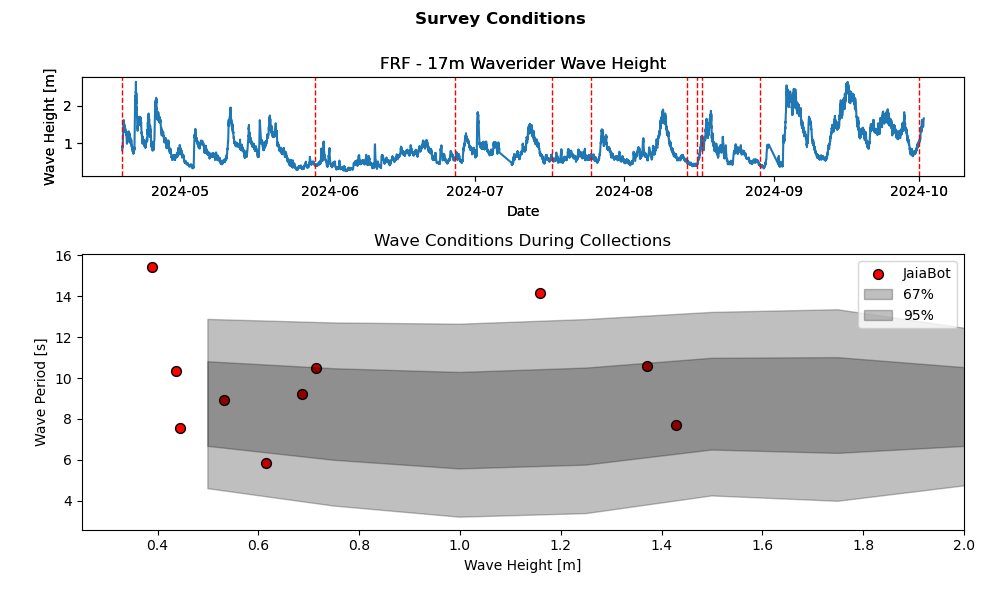
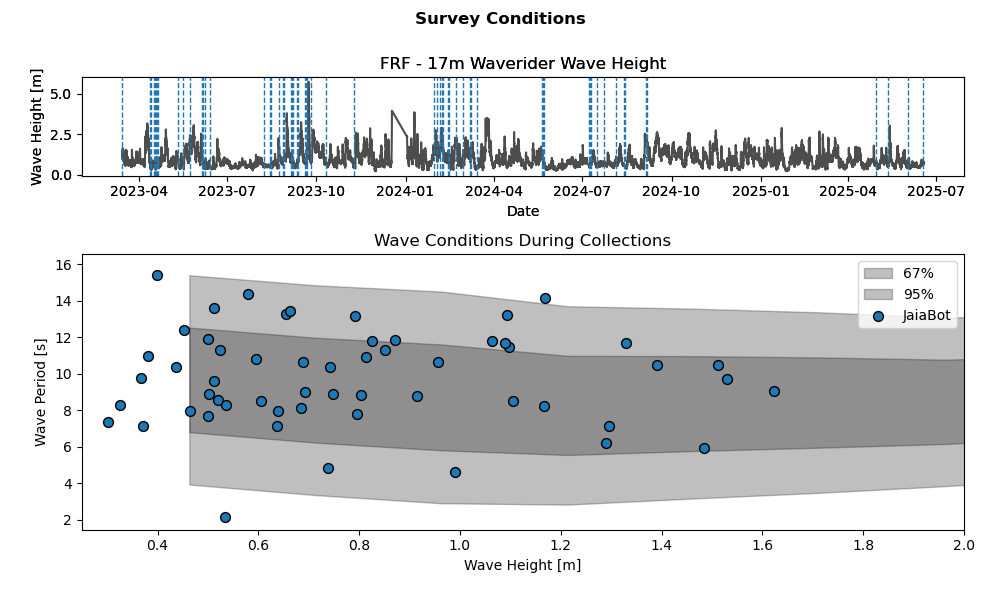
Update date lists; update marker colors; make new plots.

diff --git a/find_asv_survey_conditions.py b/find_asv_survey_conditions.py
@@ -5,9 +5,9 @@ from matplotlib import pyplot as plt
 
 ############### USER INPUTS ###############
 
-ofname = 'all_jb_wave_conditions.png'  # name of figure to be printed
-#yf_date_file_name = 'all_yellowfin_dates.txt'  # Comment this line out if you don't want to include these dates
-jb_date_file_name = 'all_jaiabot_dates.txt'  # Comment this line out if you don't want to include these dates
+ofname = 'all_yf_wave_conditions.png'  # name of figure to be printed
+yf_date_file_name = 'all_yellowfin_dates.txt'  # Comment this line out if you don't want to include these dates
+#jb_date_file_name = 'all_jaiabot_dates.txt'  # Comment this line out if you don't want to include these dates
 sampling_hours = 1  # number of hours for each survey, assuming start time below (one datapoint will be plotted for each hour)
 start_hour = 13  # assumed start hour in UTC (ie 1300 UTC)
 
@@ -58,22 +58,24 @@ def conditions_operated_plot(ofname, all_waves, bins, tp_mean, tp_std,
     # Panel 1: Vertical lines for survey dates
     ax1 = plt.subplot2grid((3, 2), (0, 0), colspan=2)
     ax1.set_title('FRF - 17m Waverider Wave Height')
-    ax1.plot(all_waves['time'], all_waves['Hs'], label='Wave Height') #, color='#5A5A5A')
+    ax1.plot(all_waves['time'], all_waves['Hs'], label='Wave Height', color='#4d4d4d')
     ax1.set_ylabel('Wave Height [m]')
     ax1.set_xlabel('Date')
 
     if yf_dates_list:
         for d in yf_dates_list:
-            ax1.axvline(dt.datetime.strptime(d, '%Y%m%d'), color='#FFDB58', linestyle='--', linewidth=1,
-                        label='Yellowfin')
+            ax1.axvline(dt.datetime.strptime(d, '%Y%m%d'), color='#ff7f0e', linestyle='--', linewidth=1,
+                        label='Yellowfin')  #color='#FFDB58'
 
     if jb_dates_list:
         for d in jb_dates_list:
-            ax1.axvline(dt.datetime.strptime(d, '%Y%m%d'), color='red', linestyle='--', linewidth=1, label='JaiaBot')
+            ax1.axvline(dt.datetime.strptime(d, '%Y%m%d'), color='#1f77b4', linestyle='--', linewidth=1, label='JaiaBot')
 
     # Panel 2: Wave conditions during surveys
     ax2 = plt.subplot2grid((3, 2), (1, 0), colspan=2, rowspan=2)
     ax2.set_title('Wave Conditions During Collections')
+    ax2.fill_between(bins, tp_mean + tp_std, tp_mean - tp_std, alpha=0.25, color='black', label='67%')
+    ax2.fill_between(bins, tp_mean + 2 * tp_std, tp_mean - 2 * tp_std, alpha=0.25, color='black', label='95%')
 
     if yf_dates_list:
         yf_dates = [dt.datetime.strptime(date, '%Y%m%d') for date in yf_dates_list]
@@ -84,7 +86,7 @@ def conditions_operated_plot(ofname, all_waves, bins, tp_mean, tp_std,
             mask = np.isin(all_wave_dates, yf_times)
             yf_hs.extend(all_waves['Hs'][mask])
             yf_tp.extend(1 / all_waves['peakf'][mask])
-        ax2.scatter(yf_hs, yf_tp, marker='D', c='#FFDB58', s=50, edgecolor='k', label='Yellowfin')
+        ax2.scatter(yf_hs, yf_tp, marker='D', c='#ff7f0e', s=50, edgecolor='k', label='Yellowfin')  #c='#FFDB58'
 
     if jb_dates_list:
         jb_dates = [dt.datetime.strptime(date, '%Y%m%d') for date in jb_dates_list]
@@ -95,10 +97,8 @@ def conditions_operated_plot(ofname, all_waves, bins, tp_mean, tp_std,
             mask = np.isin(all_wave_dates, jb_times)
             jb_hs.extend(all_waves['Hs'][mask])
             jb_tp.extend(1 / all_waves['peakf'][mask])
-        ax2.scatter(jb_hs, jb_tp, marker='o', c='red', s=50, edgecolor='k', label='JaiaBot')
+        ax2.scatter(jb_hs, jb_tp, marker='o', c='#1f77b4', s=50, edgecolor='k', label='JaiaBot')
 
-    ax2.fill_between(bins, tp_mean + tp_std, tp_mean - tp_std, alpha=0.25, color='black', label='67%')
-    ax2.fill_between(bins, tp_mean + 2 * tp_std, tp_mean - 2 * tp_std, alpha=0.25, color='black', label='95%')
     ax2.set_xlabel('Wave Height [m]')
     ax2.set_ylabel('Wave Period [s]')
     ax2.set_xlim([0.25, 2])
